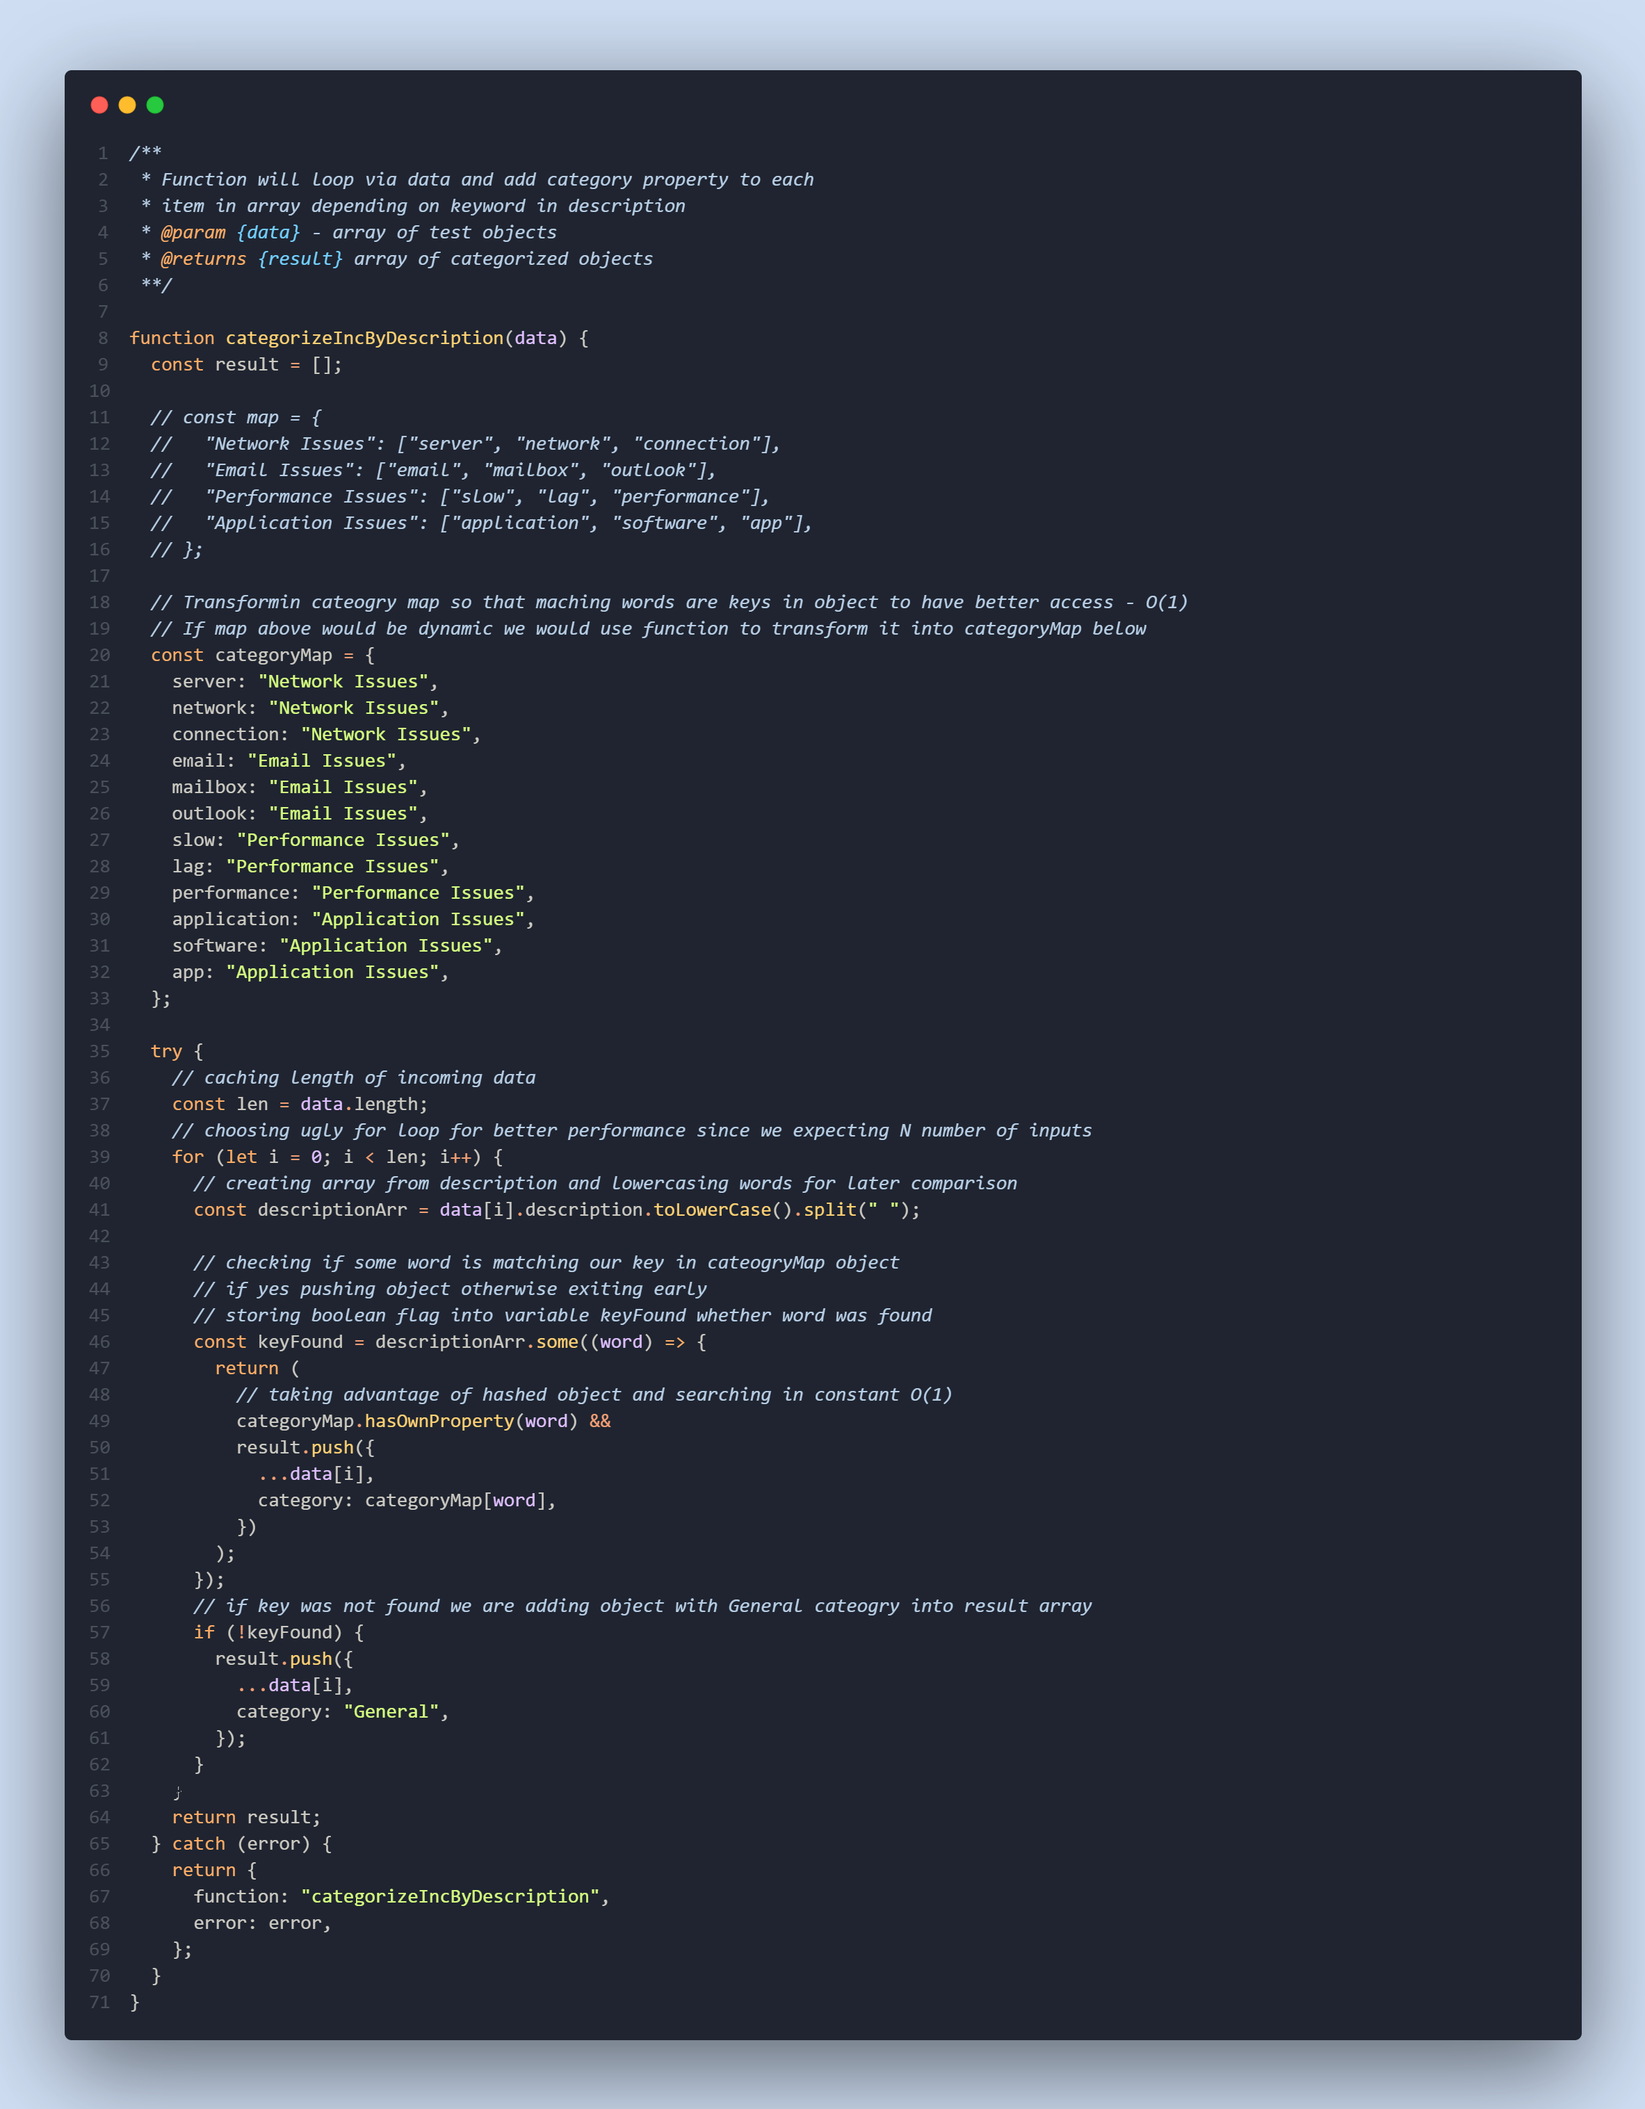
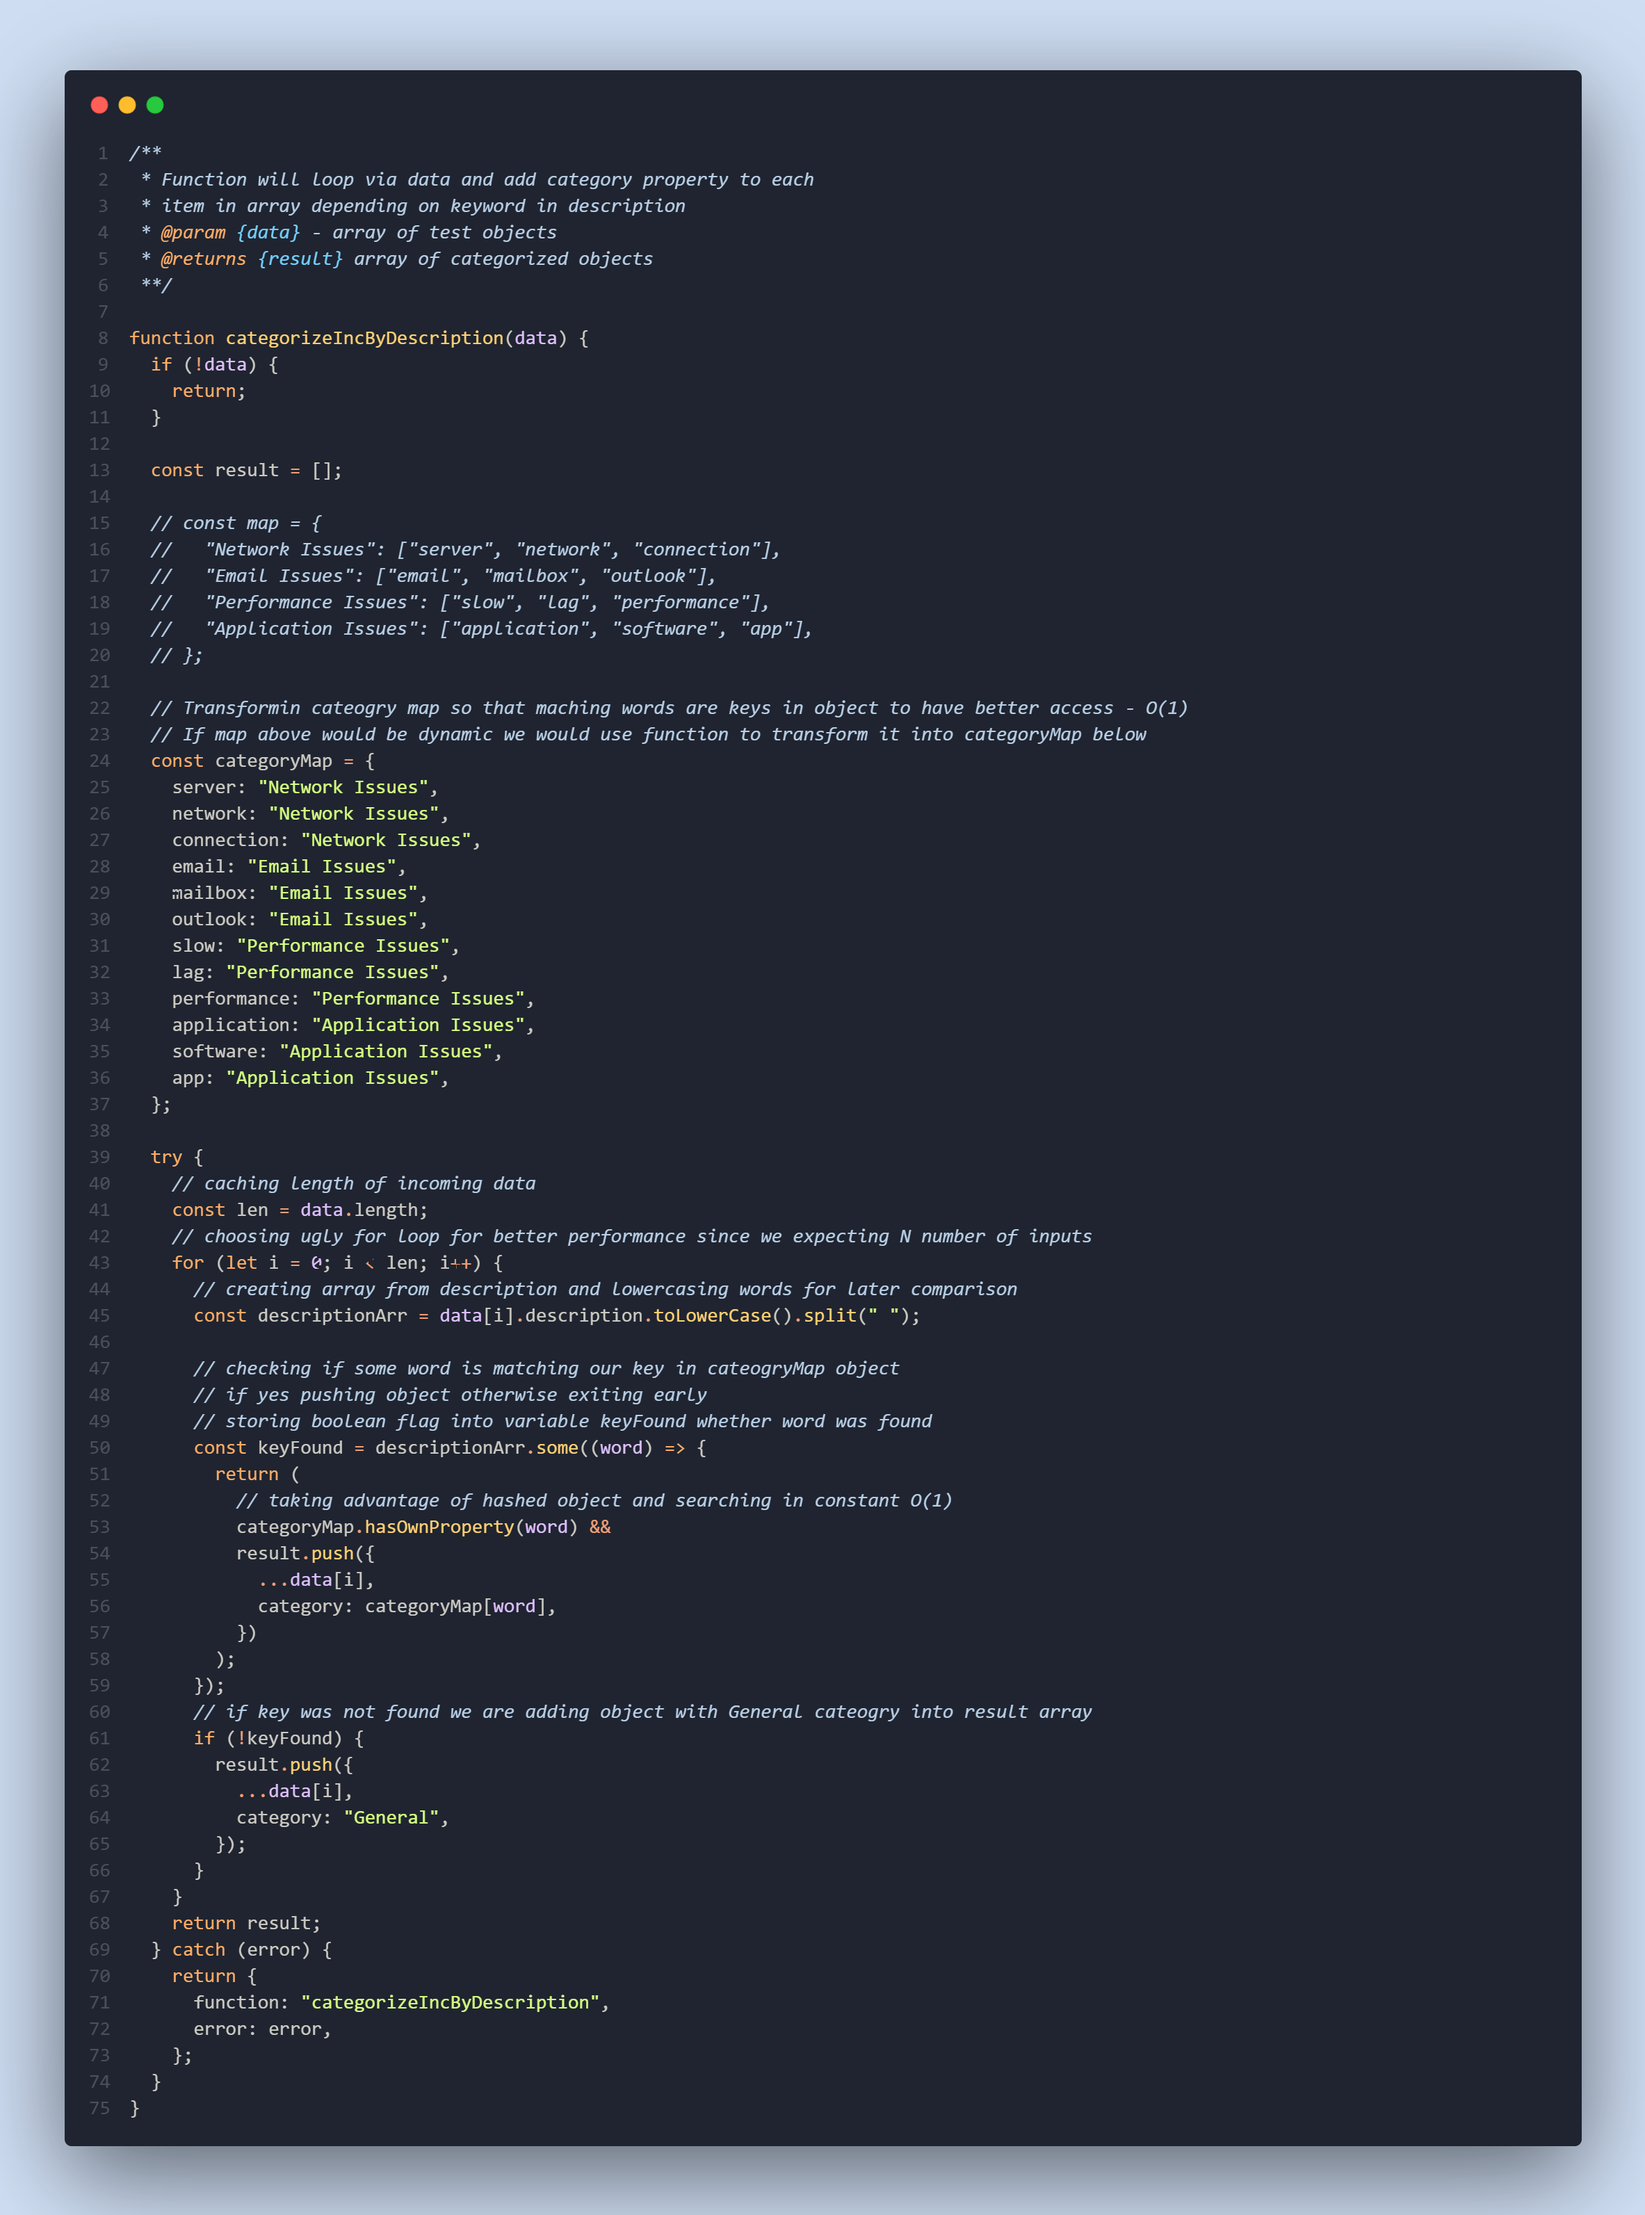
add quard clause into func

Changed region(s): [[0.0617, 0.031, 0.6171, 0.8365], [0.0926, 0.8675, 0.3702, 0.9295], [0.5554, 0.2788, 0.6788, 0.3408]]

diff --git a/index.js b/index.js
@@ -39,6 +39,10 @@ const data = [
  **/
 
 function categorizeIncByDescription(data) {
+  if (!data) {
+    return;
+  }
+
   const result = [];
 
   // const map = {
